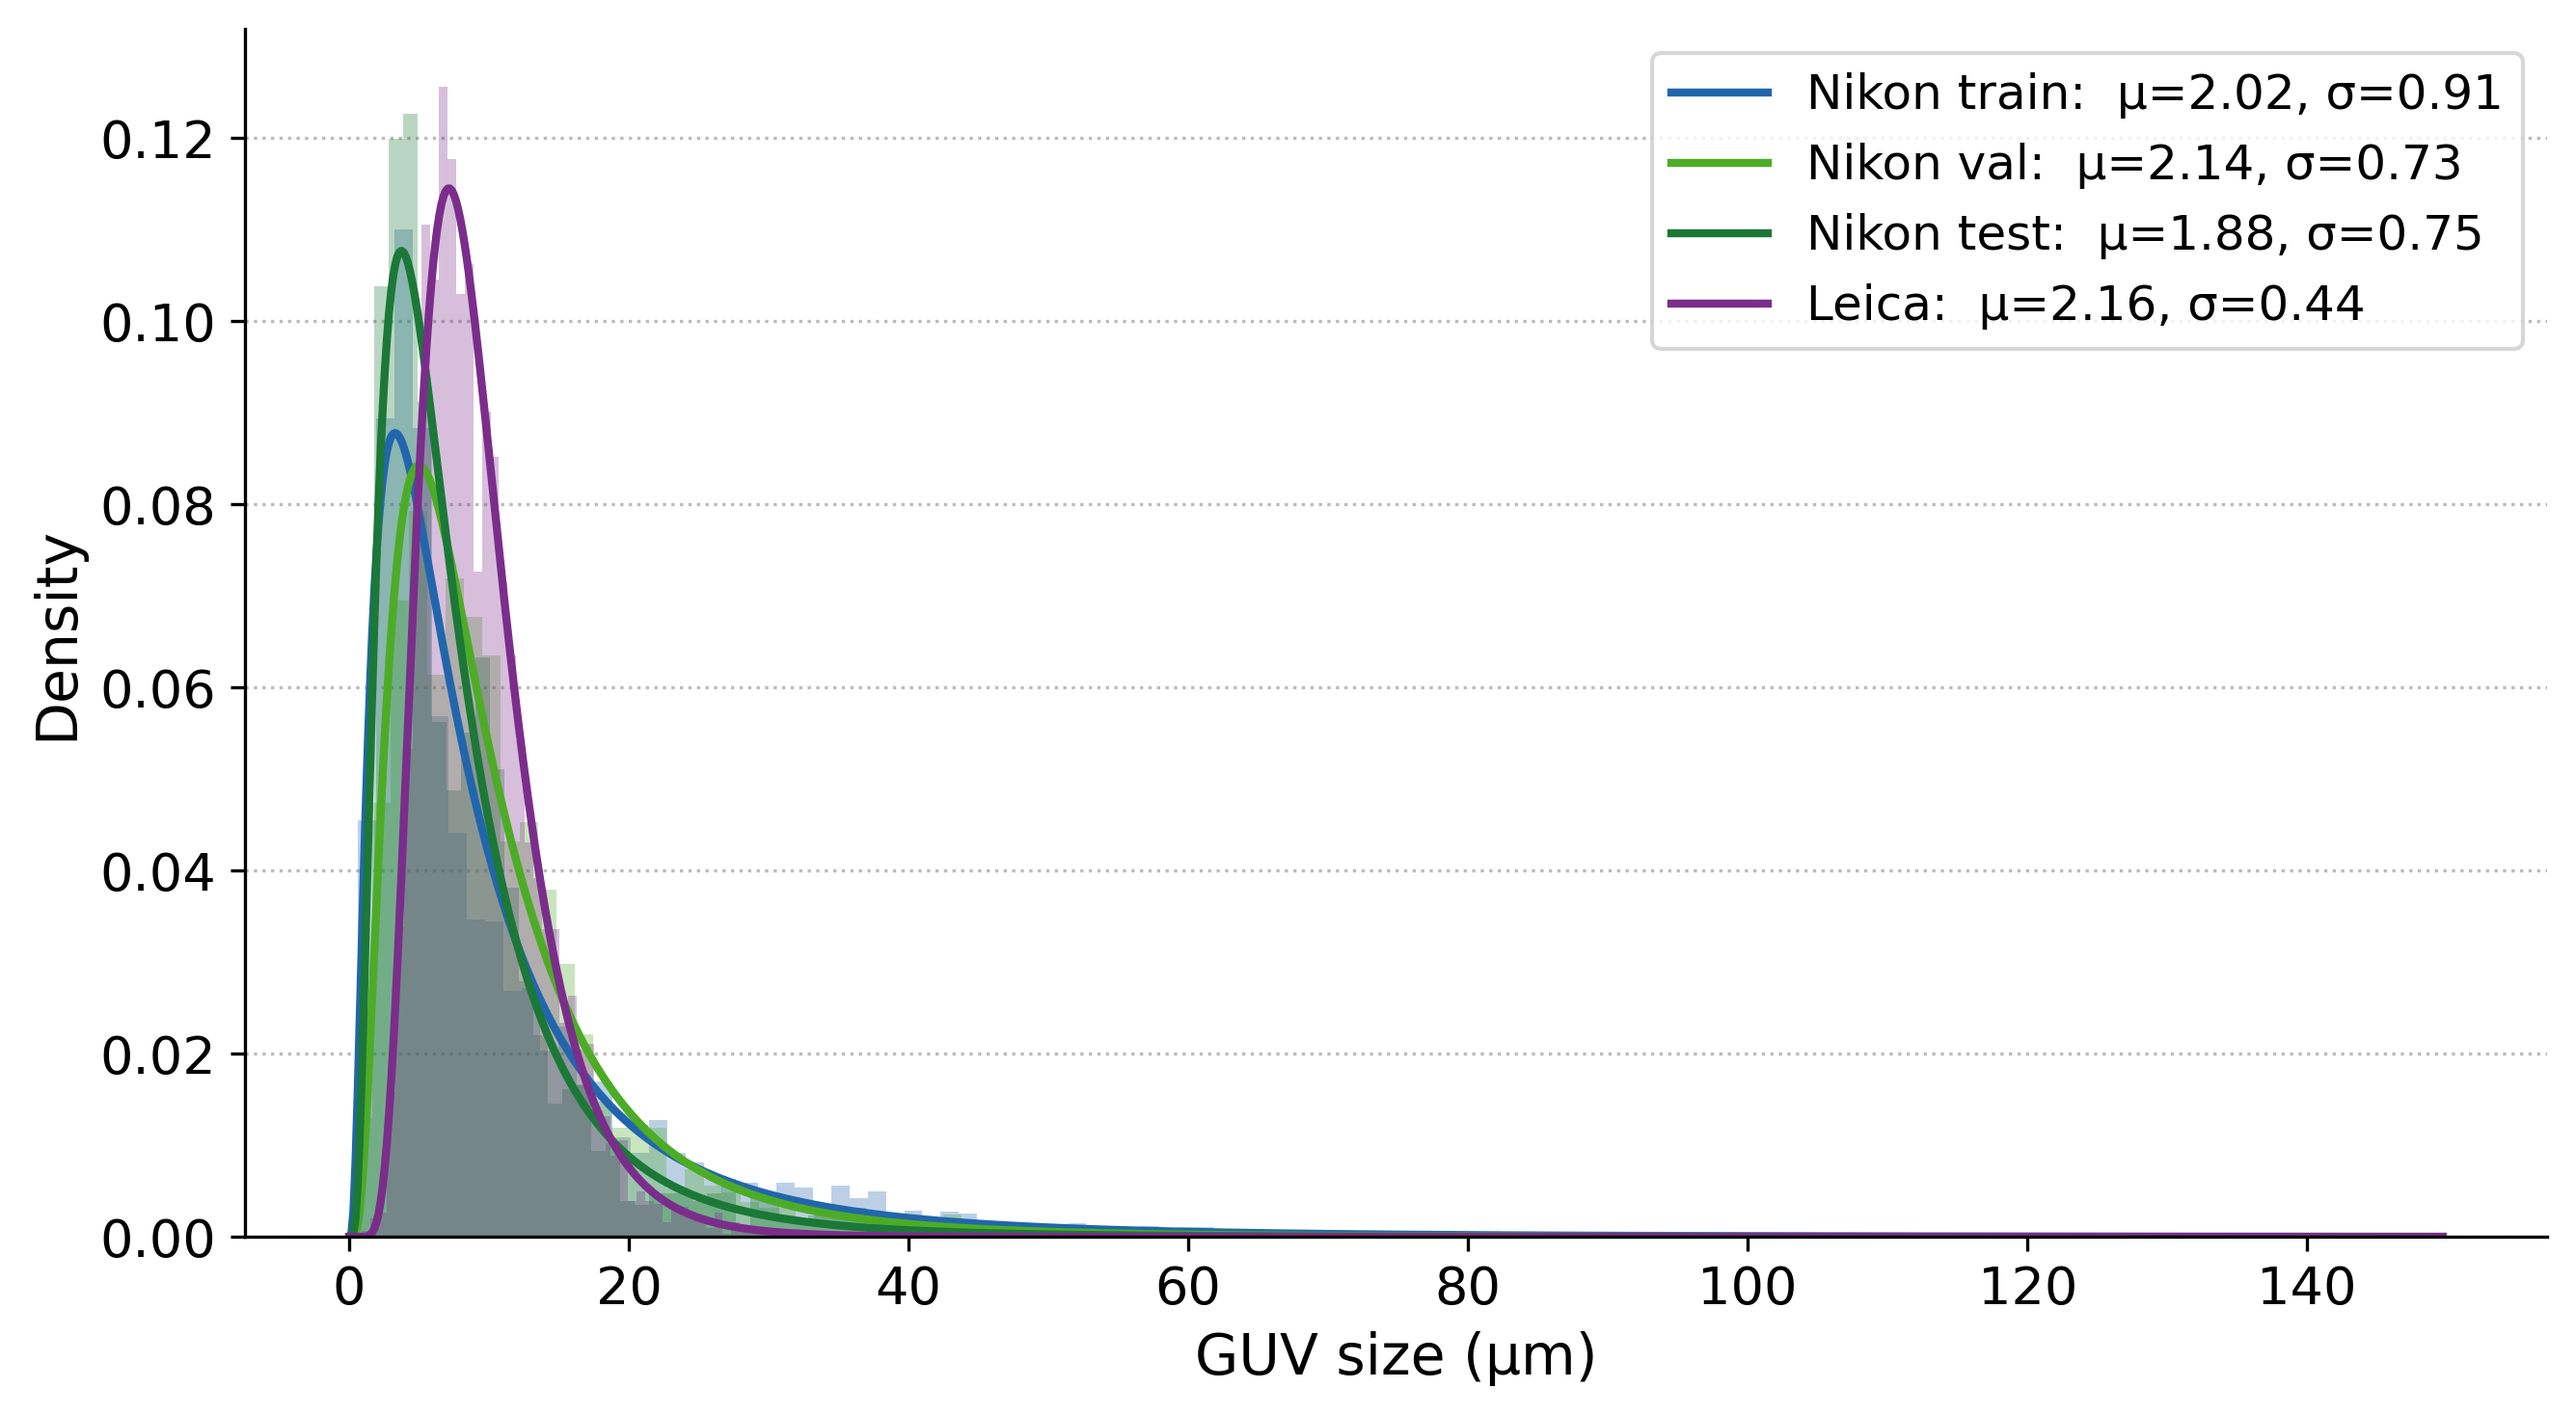
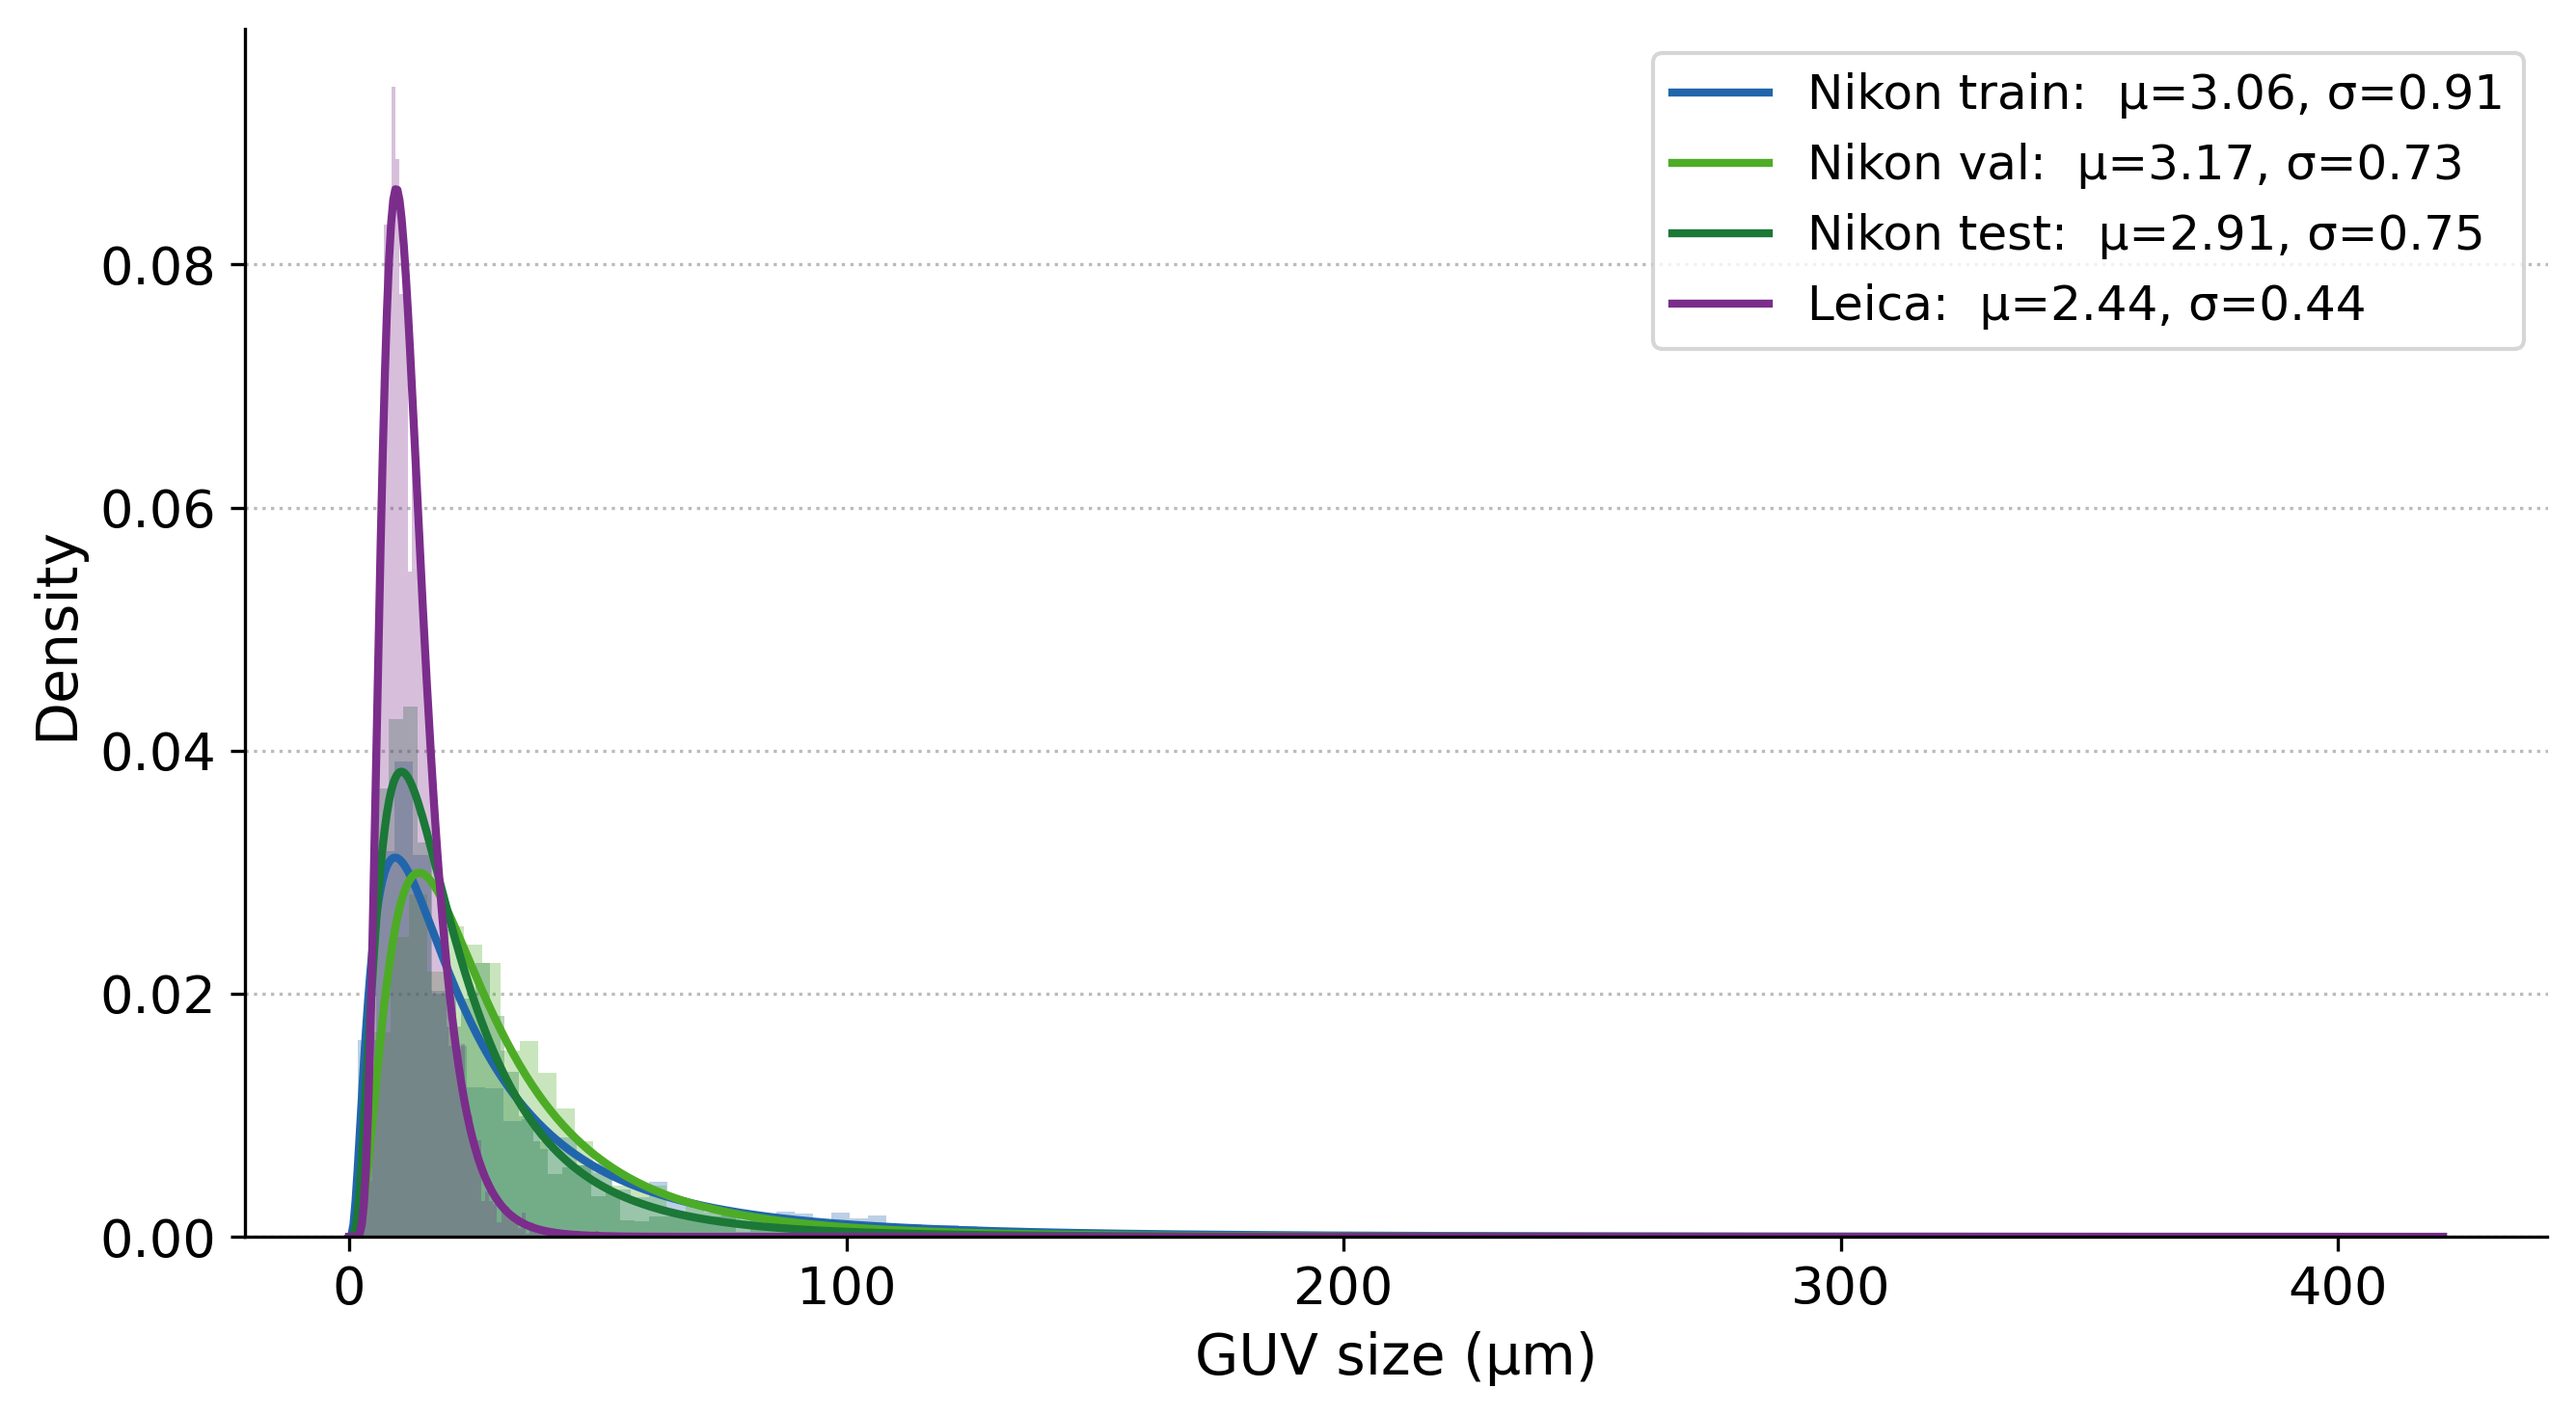
fixed calibration factors

diff --git a/images/fig3_bbox_sizes.py b/images/fig3_bbox_sizes.py
@@ -24,7 +24,7 @@ FS_LABEL  = 14
 FS_TICK   = 13
 FS_LEGEND = 12
 
-MU_PER_PX = {"nikon": 0.1205, "leica": 0.339}
+MU_PER_PX = {"nikon": 0.339, "leica": 0.45}
 
 
 def compute_dims(folders, calibrated=False):

diff --git a/README.md b/README.md
@@ -63,8 +63,8 @@ The spatial calibration factors (µm/pixel) for each system are:
 
 | Microscope | µm/pixel |
 |---|---|
-| Nikon | **0.1205** |
-| Leica | **0.339** |
+| Nikon | **0.339** |
+| Leica | **0.45** |
 
 Physical grids were overlaid on the samples during acquisition to facilitate systematic traversal of the field of view. Images were saved in RGB format. Acquisitions were performed at two magnification levels on the Nikon system, resulting in different native resolutions (see [Tiling Strategy](#tiling-strategy)).
 
